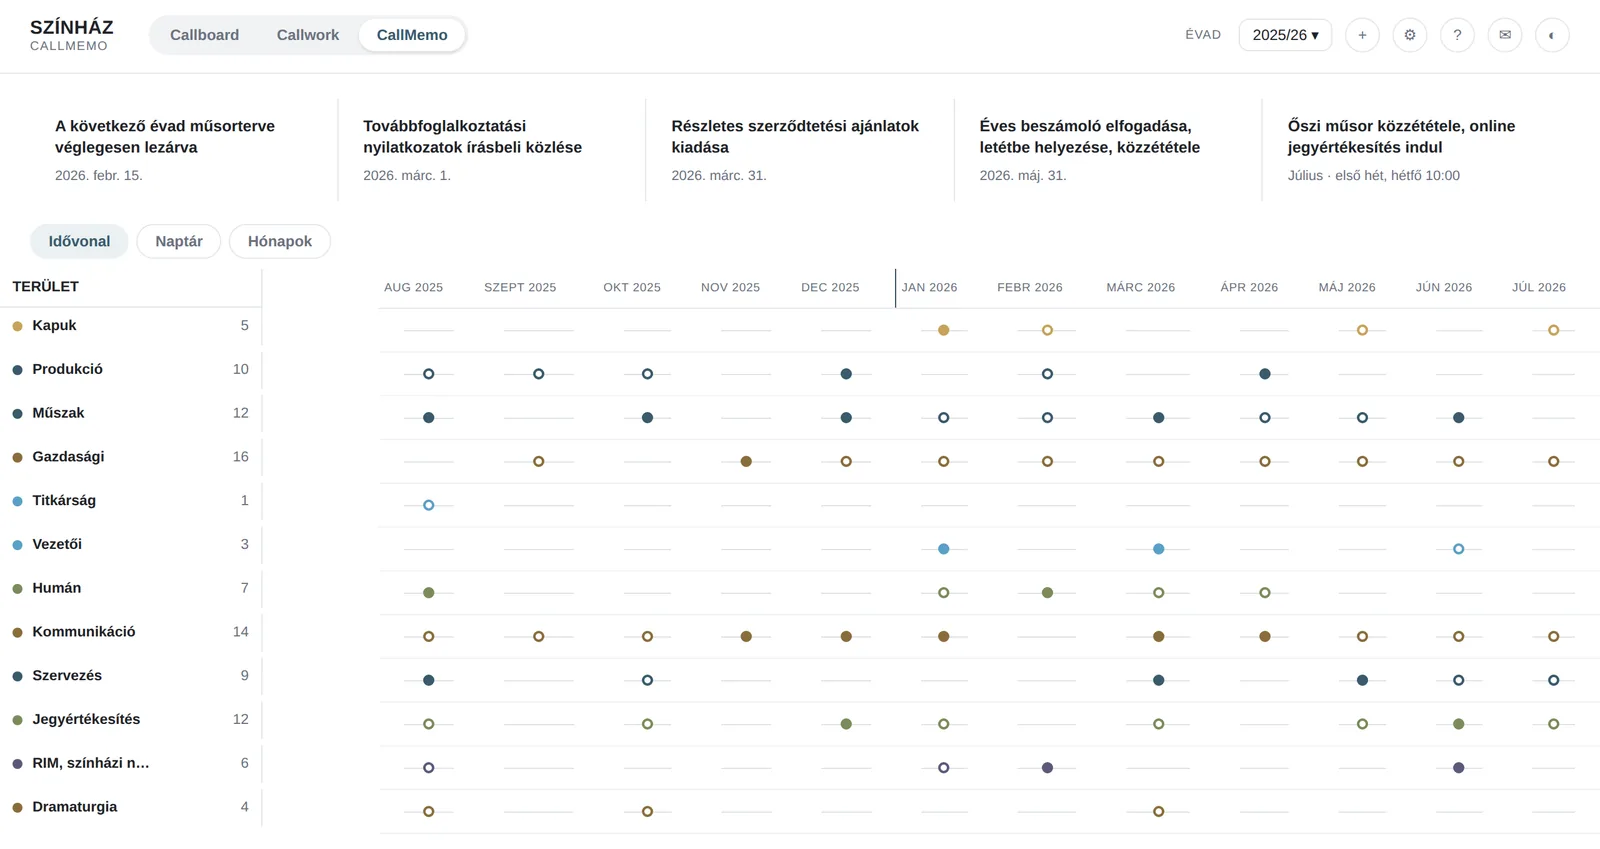
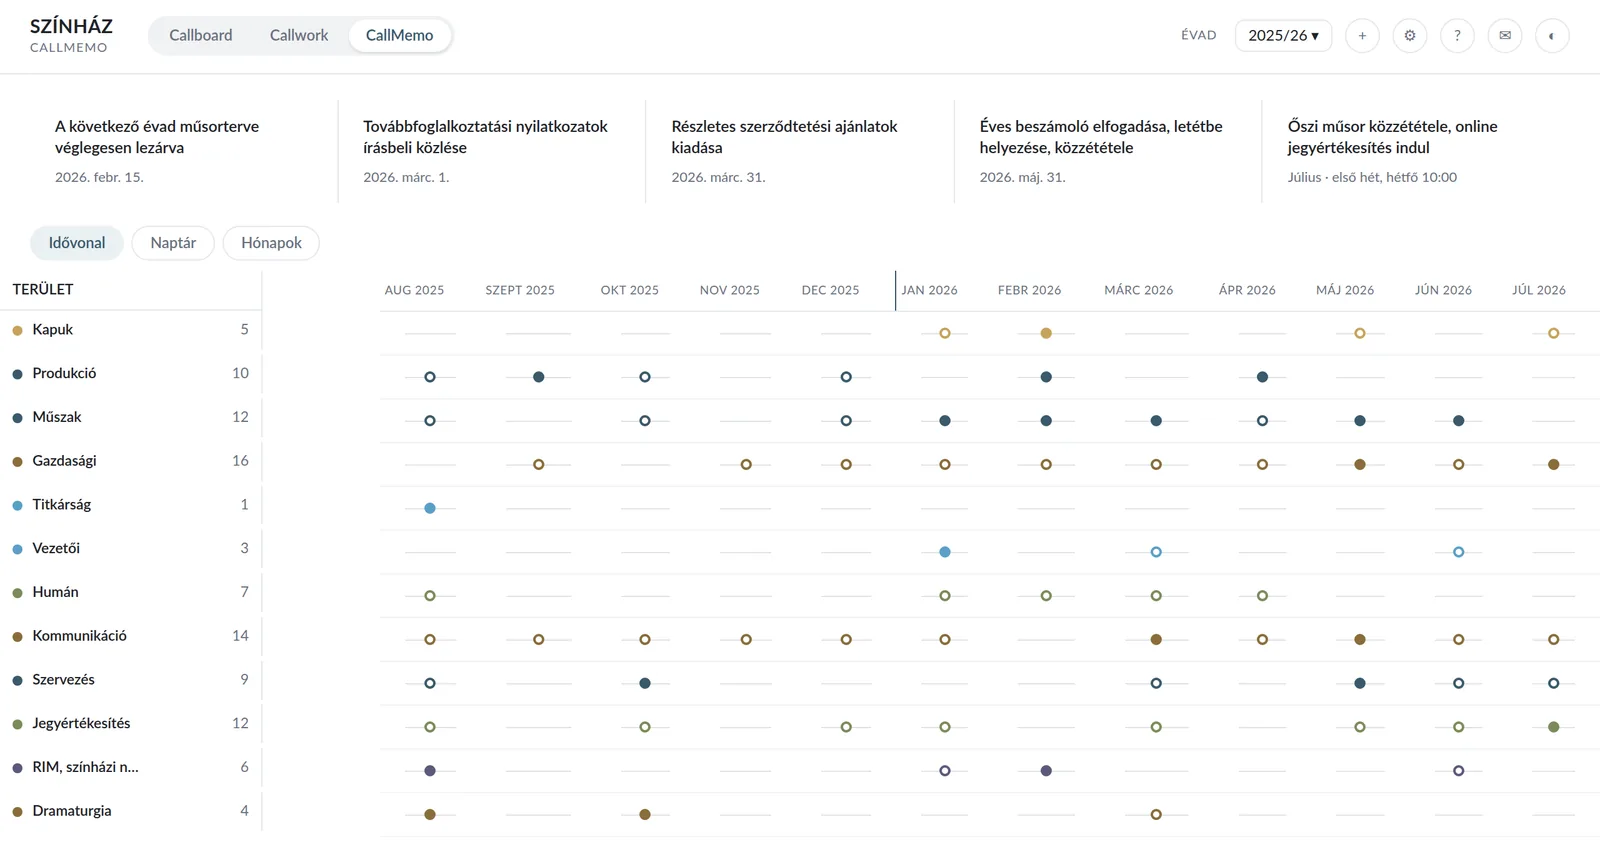
3D gráf lekicsinyítés, Lato betűtípus a demó képeken, főcím-kiemelés görgetéskor
Három egymásra épülő javítás: a hero 3D gráfja mostantól arányosan a dobozához igazodik, a callboard demó képek a valódi Callboard Lato betűtípusát használják rendszer-fontkészlet helyett, és a szekció-főcímek görgetéskor a képernyő közepén világosodnak ki.

diff --git a/callboard.html b/callboard.html
@@ -63,12 +63,12 @@
       <p>A stábtag semmit nem telepít. A levélben kapott személyes linkje megnyílik a telefonján, és ha kiteszi a kezdőképernyőjére, attól a pillanattól úgy viselkedik, mint egy alkalmazás.</p>
 
       <figure style="margin-top:24px">
-        <img src="kepek/callboard_01_produkciok.webp" alt="Produkciós áttekintő: hat bemutató, mérföldkövek és összevető idővonal" width="1600" height="874" loading="lazy" style="width:100%">
+        <img src="kepek/callboard_01_produkciok.webp" alt="Produkciós áttekintő: hat bemutató, mérföldkövek és összevető idővonal" width="1600" height="899" loading="lazy" style="width:100%">
         <figcaption>Produkciós áttekintő a demó példányról. Kitalált produkciók, kitalált nevek.</figcaption>
       </figure>
 
       <figure style="margin-top:24px">
-        <img src="kepek/callboard_03_evadterv.webp" alt="CallMemo évadterv: vezetői mérföldkövek területenként, idővonalon" width="1600" height="849" loading="lazy" style="width:100%">
+        <img src="kepek/callboard_03_evadterv.webp" alt="CallMemo évadterv: vezetői mérföldkövek területenként, idővonalon" width="1600" height="852" loading="lazy" style="width:100%">
         <figcaption>CallMemo, a vezetői évadterv. Területenkénti mérföldkövek egy idővonalon.</figcaption>
       </figure>
     </div>
@@ -84,27 +84,27 @@
       <p><strong>Értesítés a telefonra, tartalom nélkül.</strong> Ami a próbatáblán van, az nem megy át idegen szolgáltatók szerverein.</p>
 
       <figure style="margin-top:24px">
-        <img src="kepek/callboard_02_napi_tabla.webp" alt="Próbatábla: próba-idővonal és napi beosztás színpad és próbaterem szerint" width="1600" height="1005" loading="lazy" style="width:100%">
+        <img src="kepek/callboard_02_napi_tabla.webp" alt="Próbatábla: próba-idővonal és napi beosztás színpad és próbaterem szerint" width="1600" height="1008" loading="lazy" style="width:100%">
         <figcaption>Próbatábla a demó példányról. A helyszínek általános elnevezéssel szerepelnek.</figcaption>
       </figure>
 
       <figure style="margin-top:24px">
-        <img src="kepek/callboard_06_eloadasok.webp" alt="Előadások havi nézete, helyszínnel és jelentés-gombbal" width="1600" height="859" loading="lazy" style="width:100%">
+        <img src="kepek/callboard_06_eloadasok.webp" alt="Előadások havi nézete, helyszínnel és jelentés-gombbal" width="1600" height="866" loading="lazy" style="width:100%">
         <figcaption>Havi műsorterv. A helyszín itt is csak Színpad 1./2./3. címkével szerepel.</figcaption>
       </figure>
 
       <figure style="margin-top:24px">
-        <img src="kepek/callboard_04_koltsegkeret.webp" alt="Költségkeret-figyelő: keret, elköltve, maradék, felhasználás százalékban" width="1600" height="191" loading="lazy" style="width:100%">
+        <img src="kepek/callboard_04_koltsegkeret.webp" alt="Költségkeret-figyelő: keret, elköltve, maradék, felhasználás százalékban" width="1600" height="159" loading="lazy" style="width:100%">
         <figcaption>Költségkeret-figyelő az évadra. Kitalált összegek.</figcaption>
       </figure>
 
       <figure style="margin-top:24px">
-        <img src="kepek/callboard_05_koltseg_produkcionkent.webp" alt="Költségek produkciónként: tervezett, tény, eltérés és százalék" width="1600" height="262" loading="lazy" style="width:100%">
+        <img src="kepek/callboard_05_koltseg_produkcionkent.webp" alt="Költségek produkciónként: tervezett, tény, eltérés és százalék" width="1600" height="253" loading="lazy" style="width:100%">
         <figcaption>Produkciónkénti bontás: terv, tény, eltérés. Ami a keretből megmarad, az látszik.</figcaption>
       </figure>
 
       <figure style="margin-top:24px">
-        <img src="kepek/callboard_07_koltsegek_reszletes.webp" alt="Egy produkció részletes költségkerete tételenként: honorárium, jogdíj, díszlet" width="1600" height="996" loading="lazy" style="width:100%">
+        <img src="kepek/callboard_07_koltsegek_reszletes.webp" alt="Egy produkció részletes költségkerete tételenként: honorárium, jogdíj, díszlet" width="1600" height="1024" loading="lazy" style="width:100%">
         <figcaption>Egy produkció részletes költségkerete. Kitalált összegek.</figcaption>
       </figure>
     </div>

diff --git a/en/callboard.html b/en/callboard.html
@@ -63,12 +63,12 @@
       <p>Crew members install nothing. The personal link in their email opens on their phone, and once they add it to the home screen, from that moment it behaves like an app.</p>
 
       <figure style="margin-top:24px">
-        <img src="../kepek/callboard_01_produkciok.webp" alt="Production overview with six premieres, milestones and a comparison timeline" width="1600" height="874" loading="lazy" style="width:100%">
+        <img src="../kepek/callboard_01_produkciok.webp" alt="Production overview with six premieres, milestones and a comparison timeline" width="1600" height="899" loading="lazy" style="width:100%">
         <figcaption>Production overview from the demo instance. Invented productions, invented names.</figcaption>
       </figure>
 
       <figure style="margin-top:24px">
-        <img src="../kepek/callboard_03_evadterv.webp" alt="CallMemo season plan: management milestones by department, on a timeline" width="1600" height="849" loading="lazy" style="width:100%">
+        <img src="../kepek/callboard_03_evadterv.webp" alt="CallMemo season plan: management milestones by department, on a timeline" width="1600" height="852" loading="lazy" style="width:100%">
         <figcaption>CallMemo, the management season plan. Milestones by department on one timeline.</figcaption>
       </figure>
     </div>
@@ -84,27 +84,27 @@
       <p><strong>Push notifications carry no content.</strong> Nothing from the rehearsal schedule passes through third-party servers.</p>
 
       <figure style="margin-top:24px">
-        <img src="../kepek/callboard_02_napi_tabla.webp" alt="Rehearsal schedule: rehearsal timeline and daily assignments by stage and rehearsal room" width="1600" height="1005" loading="lazy" style="width:100%">
+        <img src="../kepek/callboard_02_napi_tabla.webp" alt="Rehearsal schedule: rehearsal timeline and daily assignments by stage and rehearsal room" width="1600" height="1008" loading="lazy" style="width:100%">
         <figcaption>Rehearsal schedule from the demo instance. Venues use generic labels.</figcaption>
       </figure>
 
       <figure style="margin-top:24px">
-        <img src="../kepek/callboard_06_eloadasok.webp" alt="Monthly performance schedule with venue and report button" width="1600" height="859" loading="lazy" style="width:100%">
+        <img src="../kepek/callboard_06_eloadasok.webp" alt="Monthly performance schedule with venue and report button" width="1600" height="866" loading="lazy" style="width:100%">
         <figcaption>Monthly programme. Venues appear only as Stage 1/2/3.</figcaption>
       </figure>
 
       <figure style="margin-top:24px">
-        <img src="../kepek/callboard_04_koltsegkeret.webp" alt="Budget monitor: planned, spent, remaining, percentage used" width="1600" height="191" loading="lazy" style="width:100%">
+        <img src="../kepek/callboard_04_koltsegkeret.webp" alt="Budget monitor: planned, spent, remaining, percentage used" width="1600" height="159" loading="lazy" style="width:100%">
         <figcaption>Season budget monitor. Invented figures.</figcaption>
       </figure>
 
       <figure style="margin-top:24px">
-        <img src="../kepek/callboard_05_koltseg_produkcionkent.webp" alt="Costs per production: planned, actual, variance and percentage" width="1600" height="262" loading="lazy" style="width:100%">
+        <img src="../kepek/callboard_05_koltseg_produkcionkent.webp" alt="Costs per production: planned, actual, variance and percentage" width="1600" height="253" loading="lazy" style="width:100%">
         <figcaption>Per-production breakdown: planned, actual, variance. What is left over is visible.</figcaption>
       </figure>
 
       <figure style="margin-top:24px">
-        <img src="../kepek/callboard_07_koltsegek_reszletes.webp" alt="Detailed line-item budget for one production: fees, rights, set" width="1600" height="996" loading="lazy" style="width:100%">
+        <img src="../kepek/callboard_07_koltsegek_reszletes.webp" alt="Detailed line-item budget for one production: fees, rights, set" width="1600" height="1024" loading="lazy" style="width:100%">
         <figcaption>Detailed line-item budget for one production. Invented figures.</figcaption>
       </figure>
     </div>

diff --git a/dizajn.js b/dizajn.js
@@ -60,6 +60,43 @@ function scrollSpyBekotese() {
   });
 }
 
+// A fociimek (szekcio-h2-k) halványak, es csak akkor teljes szinuek, amig a kepernyo
+// kozepso savaban vannak: gorgeteskor igy mindig az eppen olvasott cim van kiemelve.
+function cimKiemelesBekotese() {
+  const cimek = Array.from(document.querySelectorAll('section h2'));
+  if (cimek.length < 2) return;
+  const observer = new IntersectionObserver((entries) => {
+    entries.forEach((e) => e.target.classList.toggle('cim-fokuszban', e.isIntersecting));
+  }, { rootMargin: '-45% 0px -45% 0px' });
+  cimek.forEach((c) => {
+    c.classList.add('cim-halvany');
+    observer.observe(c);
+  });
+}
+
+// A grafot eredetileg egy szeles, teljes kepernyos felulethez terveztek: a csomopontok radiusza
+// fix pixelben van megadva. Egy ~900px-es kozponti oszlopban ez tulcsordulna a sajat dobozan
+// (a kartyak levagva/egymason latszananak), ezert a teljes csoportot arányosan lekicsinyitjuk,
+// hogy barmilyen szelessegen beleferjen; a forgas- es huzas-fizika valtozatlan marad.
+function grafMeretezes(gyoker, grab, csomopontok) {
+  let felVizszintes = 0;
+  let felFuggoleges = 0;
+  csomopontok.forEach((n) => {
+    felVizszintes = Math.max(felVizszintes, n.radius);
+    felFuggoleges = Math.max(felFuggoleges, Math.abs(n.y) + 58);
+    (n.children || []).forEach((c) => {
+      felVizszintes = Math.max(felVizszintes, n.radius + c.dRadius);
+      felFuggoleges = Math.max(felFuggoleges, Math.abs(n.y + c.dY) + 58);
+    });
+  });
+  const szuksegesSzelesseg = (felVizszintes + 70) * 2;
+  const szuksegesMagassag = (felFuggoleges + 30) * 2;
+  const box = gyoker.getBoundingClientRect();
+  if (!box.width || !box.height) return;
+  const faktor = Math.min(1, box.width / szuksegesSzelesseg, box.height / szuksegesMagassag);
+  grab.style.transform = 'scale(' + faktor + ')';
+}
+
 // A harom dimenzios graf: automatikusan forog, egerrel/ujjal huzhato, minden csomopont valodi link.
 function grafLetrehozasa(gyoker, csomopontok) {
   const csoport = gyoker.querySelector('.graf-csoport');
@@ -199,6 +236,13 @@ function grafLetrehozasa(gyoker, csomopontok) {
     grab.classList.remove('ragad');
   });
 
+  grafMeretezes(gyoker, grab, csomopontok);
+  let atmeretezesIdozito;
+  window.addEventListener('resize', () => {
+    clearTimeout(atmeretezesIdozito);
+    atmeretezesIdozito = setTimeout(() => grafMeretezes(gyoker, grab, csomopontok), 150);
+  });
+
   requestAnimationFrame(lepes);
 }
 
@@ -206,6 +250,7 @@ document.addEventListener('DOMContentLoaded', () => {
   document.querySelectorAll('.csillagmezo').forEach(csillagokLetrehozasa);
   accordionBekotese();
   scrollSpyBekotese();
+  cimKiemelesBekotese();
   const grafGyoker = document.querySelector('.graf-terulet');
   if (grafGyoker && window.GRAF_CSOMOPONTOK) grafLetrehozasa(grafGyoker, window.GRAF_CSOMOPONTOK);
 });

diff --git a/dizajn.css b/dizajn.css
@@ -17,6 +17,9 @@ h1{font-size:42px}
 h2{font-size:32px}
 h3{font-size:25px}
 h4{font-size:20px}
+/* fociim-kiemeles: gorgeteskor csak az eppen kozepen levo szekciocim teljes szinu, a tobbi halvany */
+.cim-halvany{color:color-mix(in srgb,var(--color-text) 38%,transparent);transition:color .5s ease}
+.cim-halvany.cim-fokuszban{color:var(--color-text)}
 p{margin:0 0 12px}
 a{color:var(--color-accent);text-underline-offset:3px;text-decoration:none}
 a:hover{color:var(--color-accent-700)}
